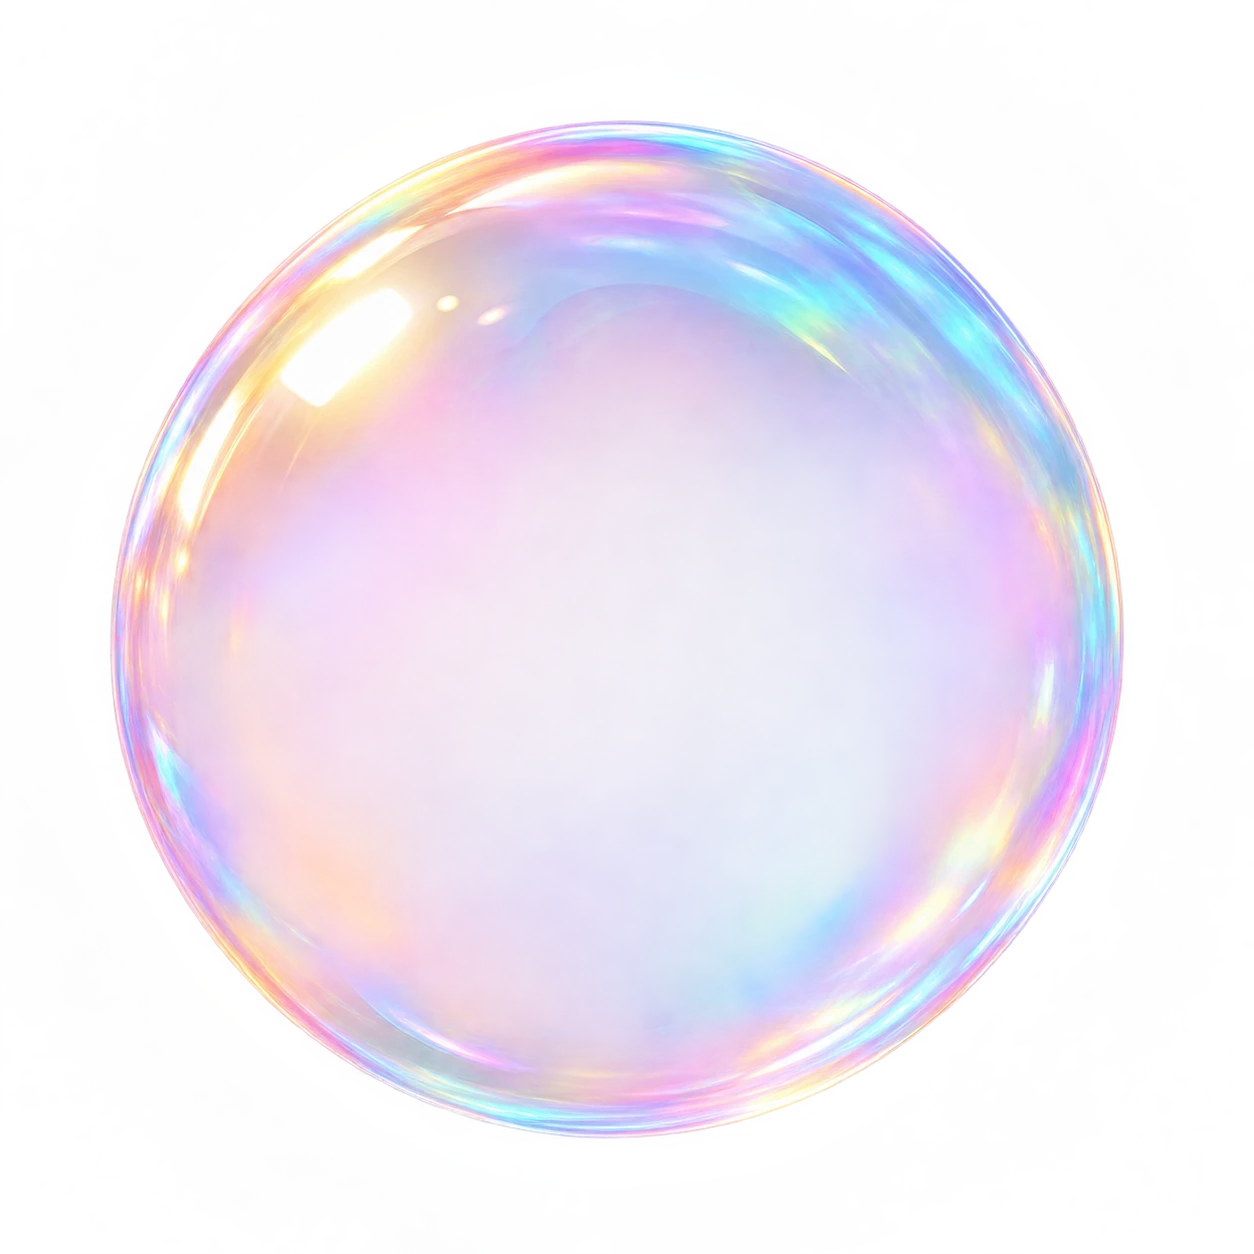
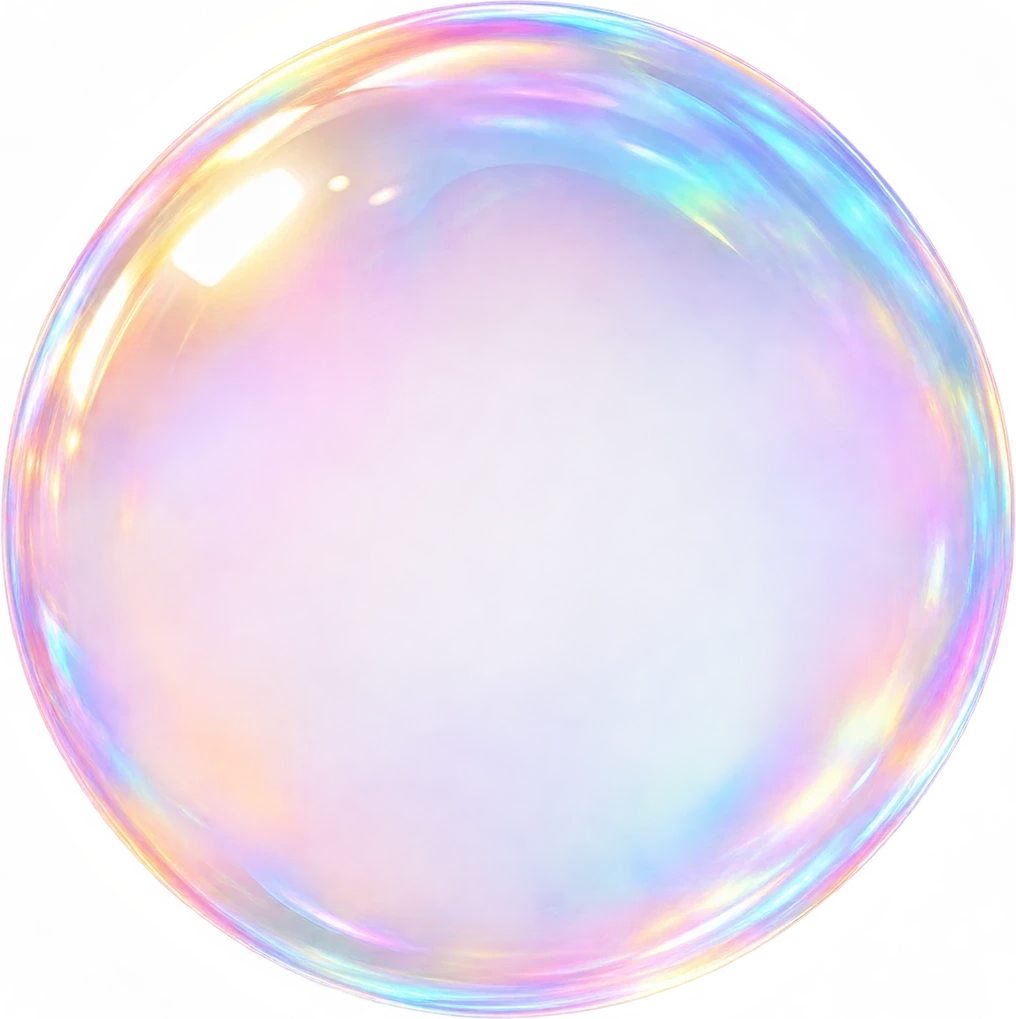
Fix background seam and the bubble's outer ring; stop washing out mood colors
- Swapped in the user's newly-generated background: fully opaque (no alpha
  channel at all), so there's no transparent-edge seam regardless of how
  resizeMode="cover" crops it for a given screen's aspect ratio. The
  previous asset had a transparent fade baked into one edge.
- The three glass-bubble textures only drew the actual sphere across ~83%
  of their canvas, leaving a transparent margin — that's the "extra layer
  outside the bubble" ring: the code-drawn circular border was visible past
  the edge of the real graphic. Cropped all three to their content bounding
  box so the sphere now fills its frame edge-to-edge.
- The bubble's own background was a translucent gradient with nothing
  opaque behind it, so the sky image bled through and diluted every mood
  color toward the same pale, washed-out look regardless of mood — fixed
  by giving the bubble a solid, fully opaque moodColor background first,
  with the gradient/texture layered on top purely for sheen/highlight.
- Fixed the glass-texture picker's hash (was re-modding on every character
  instead of once at the end) so the three variants actually distribute
  across bubbles instead of skewing toward one.

Claude-Session: https://claude.ai/code/session_01VviTLaFuKjedfiCcVQ196K

diff --git a/mobile/src/features/universe/Bubble.tsx b/mobile/src/features/universe/Bubble.tsx
@@ -29,9 +29,9 @@ const GLASS_TEXTURES = [
 ];
 
 function glassTextureFor(id: string) {
-  let hash = 0;
-  for (let i = 0; i < id.length; i++) hash = (hash + id.charCodeAt(i)) % GLASS_TEXTURES.length;
-  return GLASS_TEXTURES[hash];
+  let sum = 0;
+  for (let i = 0; i < id.length; i++) sum += id.charCodeAt(i);
+  return GLASS_TEXTURES[sum % GLASS_TEXTURES.length];
 }
 
 type Props = {
@@ -104,21 +104,24 @@ export function Bubble({ thought, layout, reduceMotion, paused, onPress, hasNoti
               width: layout.size,
               height: layout.size,
               borderRadius: layout.size,
-              borderColor: `${moodColor}66`,
+              borderColor: moodColor,
+              // Fully opaque, unlike the gradient below — otherwise the sky
+              // background shows through and every bubble reads as the same
+              // washed-out pale color regardless of mood.
+              backgroundColor: moodColor,
             },
           ]}
         >
-          {/* Base tint: lit from the top-left, deepening toward the mood
-              color at the bottom-right — reads as a curved, lit sphere
-              rather than a flat tinted disc. */}
+          {/* Soft sheen, lit from the top-left — reads as a curved, lit
+              sphere rather than a flat tinted disc. */}
           <LinearGradient
-            colors={['rgba(255, 255, 255, 0.85)', `${moodColor}55`]}
+            colors={['rgba(255, 255, 255, 0.65)', 'rgba(255, 255, 255, 0)']}
             start={{ x: 0.15, y: 0.1 }}
-            end={{ x: 0.9, y: 0.95 }}
+            end={{ x: 0.85, y: 0.9 }}
             style={StyleSheet.absoluteFill}
           />
           {/* Real glass-bubble highlight/reflection texture, laid over the
-              mood tint so the color identity still reads through. */}
+              mood color so the color identity still reads through. */}
           <Image
             source={glassTextureFor(thought.id)}
             resizeMode="cover"
